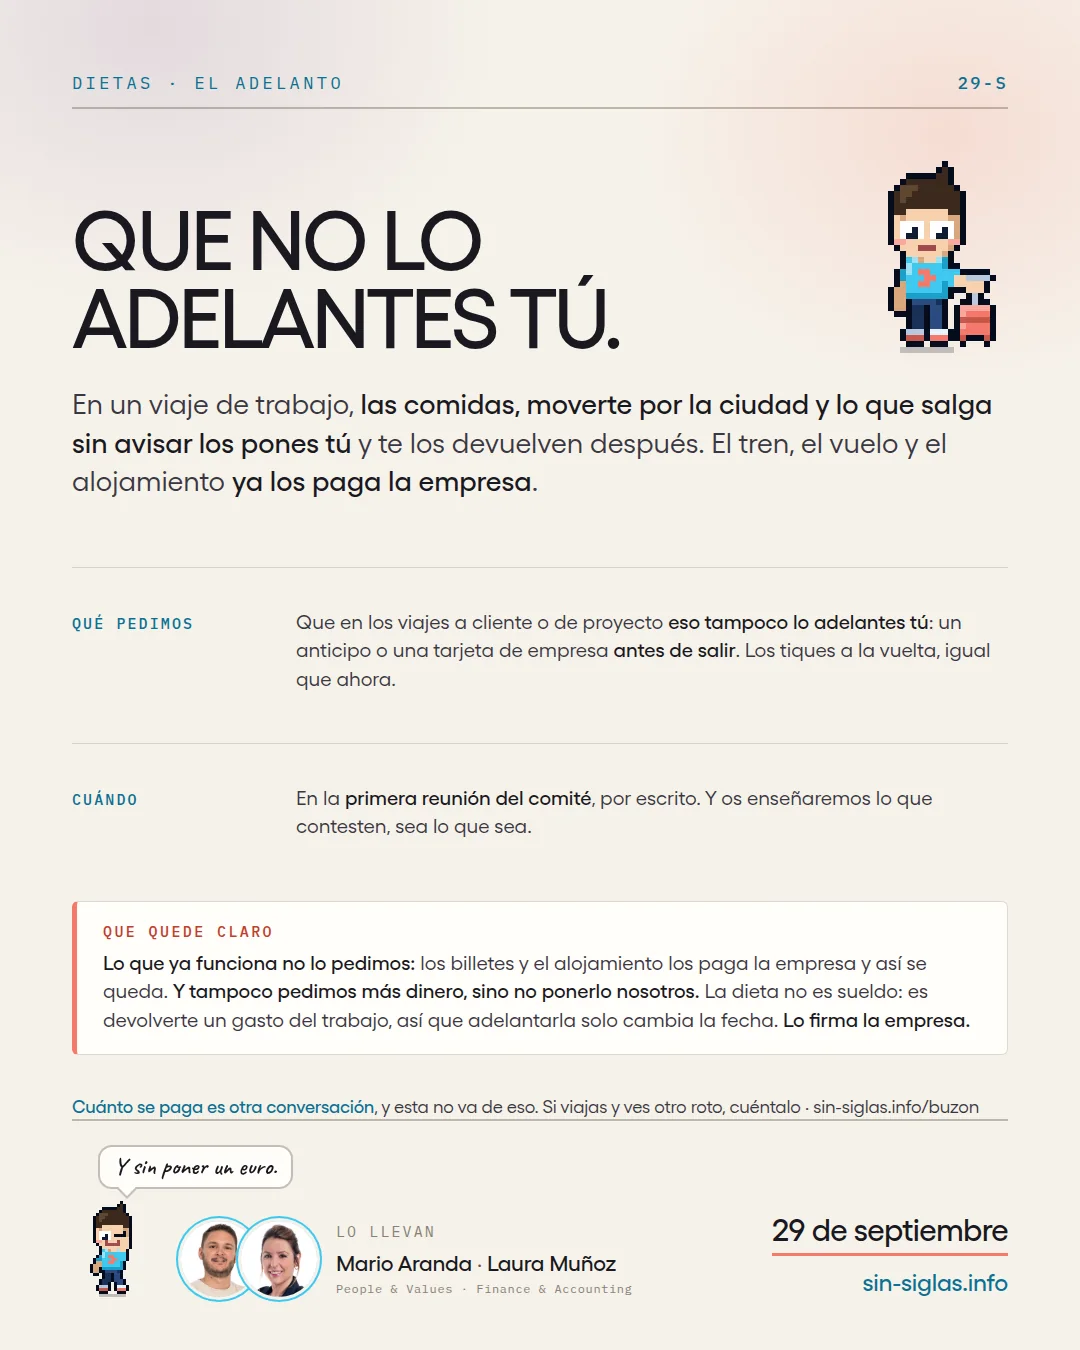
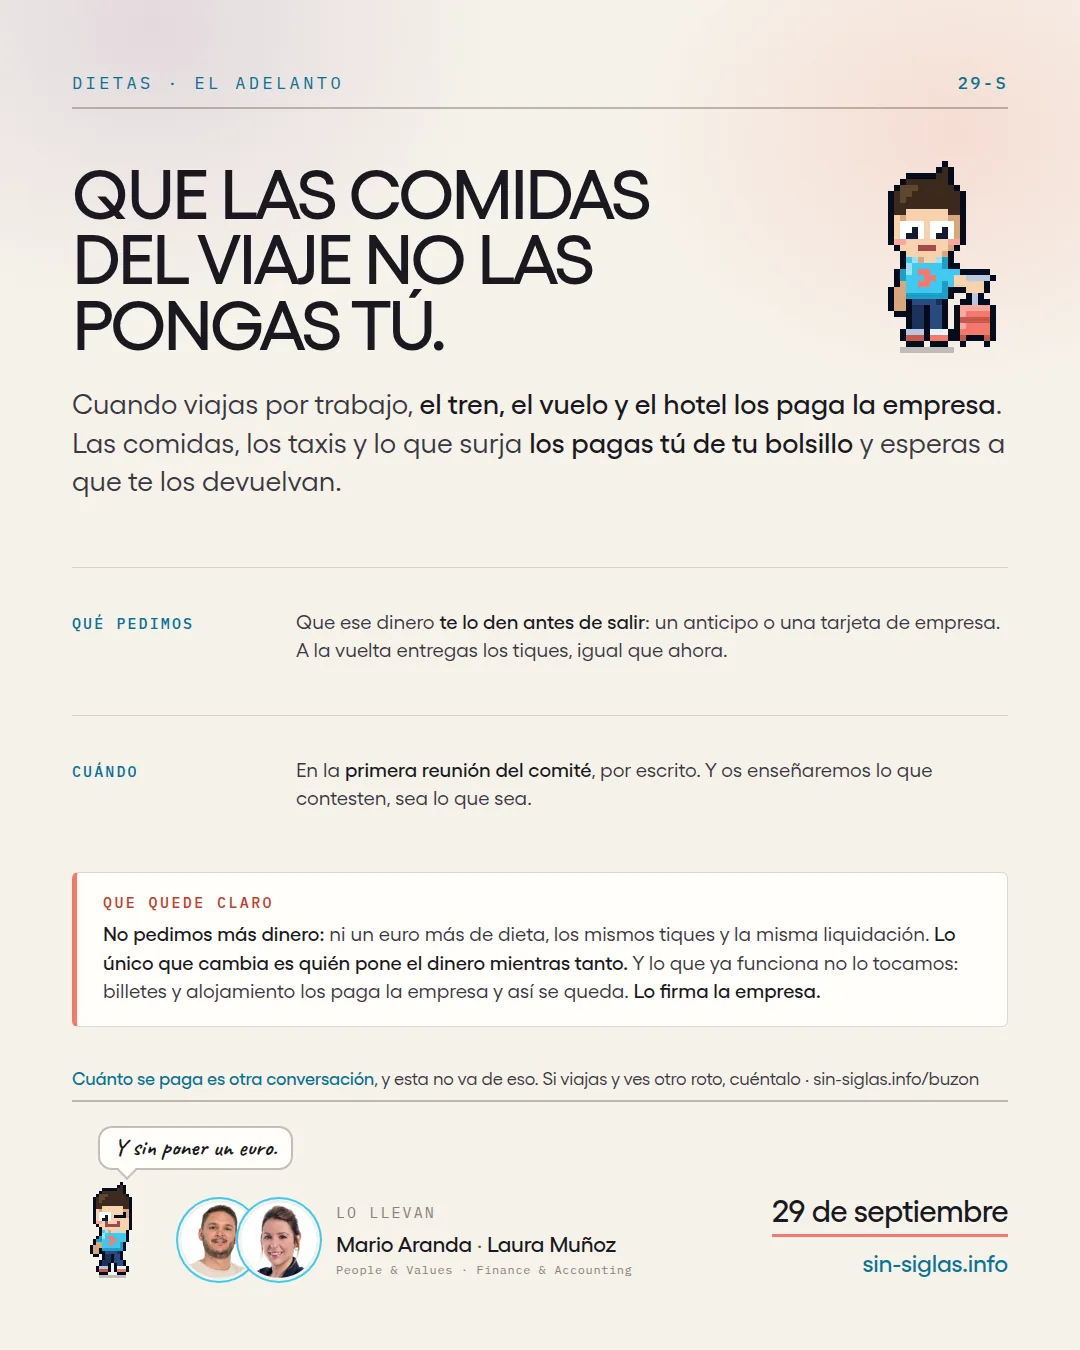
Compensación y jornada de cuatro días, en el apartado de propuestas
Los dos carteles que han salido estos días: el de compensaciones ayer y el
de los fines de semana de tres días hoy. Con ellos son ocho, y la rejilla
pasa a cuatro columnas en escritorio para que queden dos filas enteras.

Compensación no imprime artículo, así que su pie dice lo que sí dice la
pieza: las horas extra y sus causas nos las tienen que dar ya. Jornada
lleva el art. 20.1, que es el que imprime.

Van también el texto corregido de dietas y la redirección de /propuestas,
que es la ruta que imprimen los carteles.

diff --git a/web/index.html b/web/index.html
@@ -307,8 +307,8 @@ a{color:var(--cian-txt);text-decoration-thickness:1px;text-underline-offset:3px}
   list-style:none;margin:0;padding:0;display:grid;
   grid-template-columns:repeat(auto-fit,minmax(min(100%,235px),1fr));gap:2rem 1.5rem
 }
-/* seis piezas en tres columnas: a cuatro queda una fila huérfana de dos */
-@media (min-width:900px){ .props{grid-template-columns:repeat(3,1fr);gap:2.4rem 1.8rem} }
+/* ocho piezas: dos filas de cuatro. A tres quedaba una fila huérfana de dos */
+@media (min-width:900px){ .props{grid-template-columns:repeat(4,1fr);gap:2.4rem 1.6rem} }
 .prop{display:flex;flex-direction:column}
 .prop__cartel{
   position:relative;display:block;border-radius:10px;overflow:hidden;
@@ -335,7 +335,7 @@ a{color:var(--cian-txt);text-decoration-thickness:1px;text-underline-offset:3px}
 }
 .prop__ley--sin{color:var(--muted-2)}
 /* el díptico va aparte y a dos columnas: son los dos carteles de tema,
-   no dos peticiones más, y mezclarlos descuadraría la cuenta de seis */
+   no dos peticiones más, y mezclarlos descuadraría la cuenta de ocho */
 .props__par{margin-top:3.2rem;border-top:1px solid var(--line);padding-top:2rem}
 .props__par .eyebrow{margin-bottom:1.4rem}
 .props--par{grid-template-columns:repeat(auto-fit,minmax(min(100%,280px),1fr));max-width:760px}
@@ -1137,9 +1137,9 @@ a{color:var(--cian-txt);text-decoration-thickness:1px;text-underline-offset:3px}
   <div class="wrap">
     <div class="sec__head">
       <p class="eyebrow eyebrow--coral">Lo que ya hemos mandado</p>
-      <h2>Seis propuestas, una por cartel</h2>
+      <h2>Ocho propuestas, una por cartel</h2>
       <p class="lede muted">
-        No son adjetivos: son seis peticiones concretas, cada una con lo que se pide, con qué
+        No son adjetivos: son ocho peticiones concretas, cada una con lo que se pide, con qué
         artículo y quién la lleva. Están tal y como salieron por el chat, sin retocar.
       </p>
     </div>
@@ -1197,12 +1197,12 @@ a{color:var(--cian-txt);text-decoration-thickness:1px;text-underline-offset:3px}
       <li class="prop">
         <a class="prop__cartel" href="img/propuestas/dietas.webp" target="_blank" rel="noopener">
           <img src="img/propuestas/dietas-sm.webp" width="540" height="675" loading="lazy" decoding="async"
-               alt="Cartel «Que no lo adelantes tú»: el anticipo de las dietas en los viajes de trabajo.">
+               alt="Cartel «Que las comidas del viaje no las pongas tú»: el anticipo de las dietas en los viajes de trabajo.">
           <span class="prop__lupa">Ver entero</span>
         </a>
         <p class="prop__kicker">Viajes</p>
-        <h3>Que no lo adelantes tú</h3>
-        <p>El tren, el vuelo y el hotel ya los paga la empresa; la comida y moverte por la ciudad, no. Pedimos <b>anticipo o tarjeta antes de salir</b>. No es más dinero: es no ponerlo tú.</p>
+        <h3>Que las comidas del viaje no las pongas tú</h3>
+        <p>El tren, el vuelo y el hotel ya los paga la empresa. Las comidas y los taxis los pagas tú de tu bolsillo y esperas a que te los devuelvan. Pedimos <b>anticipo o tarjeta de empresa antes de salir</b>. No es más dinero: es no ponerlo tú mientras tanto.</p>
         <p class="prop__ley prop__ley--sin">Lo firma la empresa · cuánto se paga es otra conversación</p>
       </li>
       <li class="prop">
@@ -1215,6 +1215,28 @@ a{color:var(--cian-txt);text-decoration-thickness:1px;text-underline-offset:3px}
         <h3>Aparcar sin pagarlo con tu tiempo</h3>
         <p>Hoy la plaza la paga quien la usa, y quien no pasa por caja da vueltas por la calle. Pedimos <b>plaza sin coste</b> para quien tiene que venir, con el reparto ya pensado por si se llena.</p>
         <p class="prop__ley prop__ley--sin">Complementario al plan de movilidad · lo firma la empresa</p>
+      </li>
+      <li class="prop">
+        <a class="prop__cartel" href="img/propuestas/compensacion.webp" target="_blank" rel="noopener">
+          <img src="img/propuestas/compensacion-sm.webp" width="540" height="675" loading="lazy" decoding="async"
+               alt="Cartel «Tu tiempo tiene precio. Aunque no lo hayas mirado.»: lo que ya compensa el convenio y lo que no está escrito en ningún sitio.">
+          <span class="prop__lupa">Ver entero</span>
+        </a>
+        <p class="prop__kicker">Compensaciones</p>
+        <h3>Tu tiempo tiene precio</h3>
+        <p>La mitad ya está en el convenio: la hora de más, la dieta, el kilómetro. Las guardias y las horas de viaje no están en ningún sitio. Pedimos <b>un criterio escrito e igual para todos</b>, para mirarlo antes de decir que sí.</p>
+        <p class="prop__ley prop__ley--sin">Las horas extra y sus causas nos las tienen que dar ya</p>
+      </li>
+      <li class="prop">
+        <a class="prop__cartel" href="img/propuestas/jornada-4-dias.webp" target="_blank" rel="noopener">
+          <img src="img/propuestas/jornada-4-dias-sm.webp" width="540" height="675" loading="lazy" decoding="async"
+               alt="Cartel «Queremos fines de semana de tres días»: abrir la negociación de la semana de cuatro días laborables.">
+          <span class="prop__lupa">Ver entero</span>
+        </a>
+        <p class="prop__kicker">Jornada</p>
+        <h3>Fines de semana de tres días</h3>
+        <p>Abrir la negociación, con un piloto pactado y evaluado. Sin alargar el día: son 32 horas frente a 40, un 20 % menos. <b>Es la más cara de todas y no prometemos que salga</b>; prometemos pedirla y contar en qué queda.</p>
+        <p class="prop__ley">art. 20.1 del convenio</p>
       </li>
     </ul>
 
